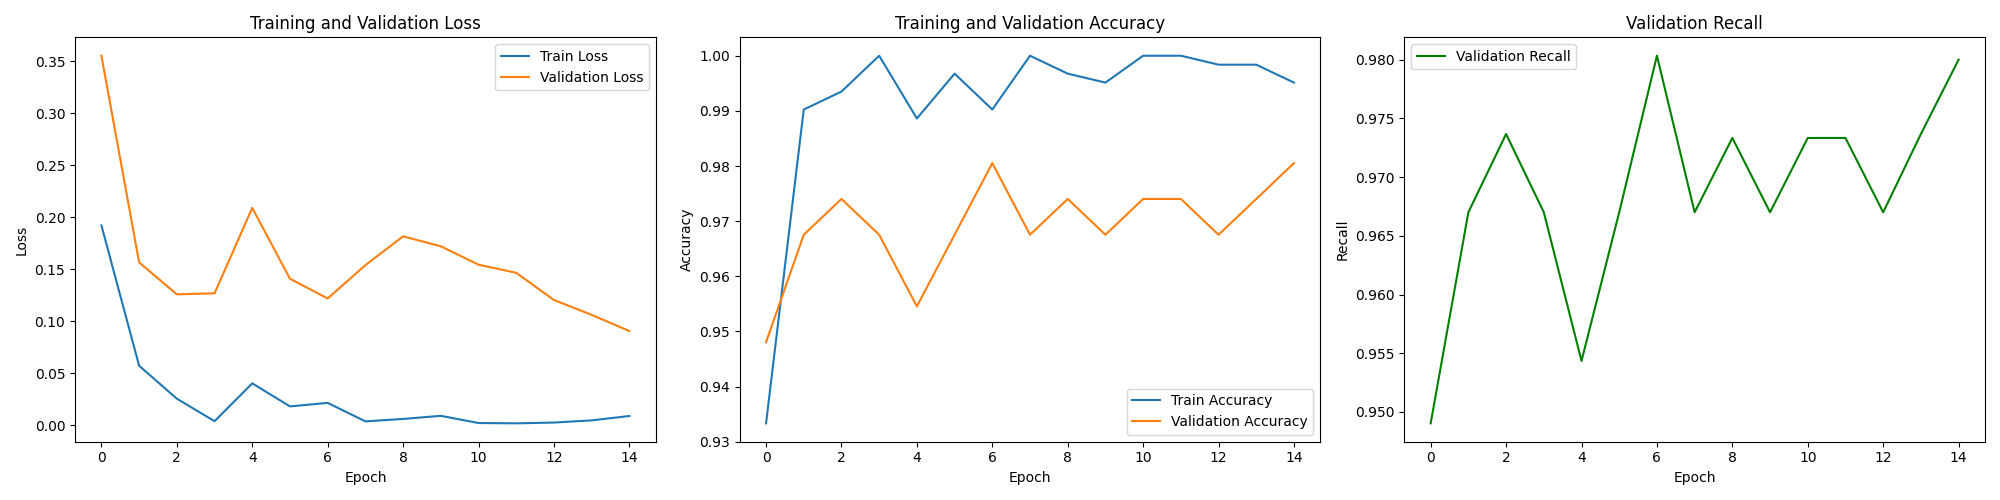
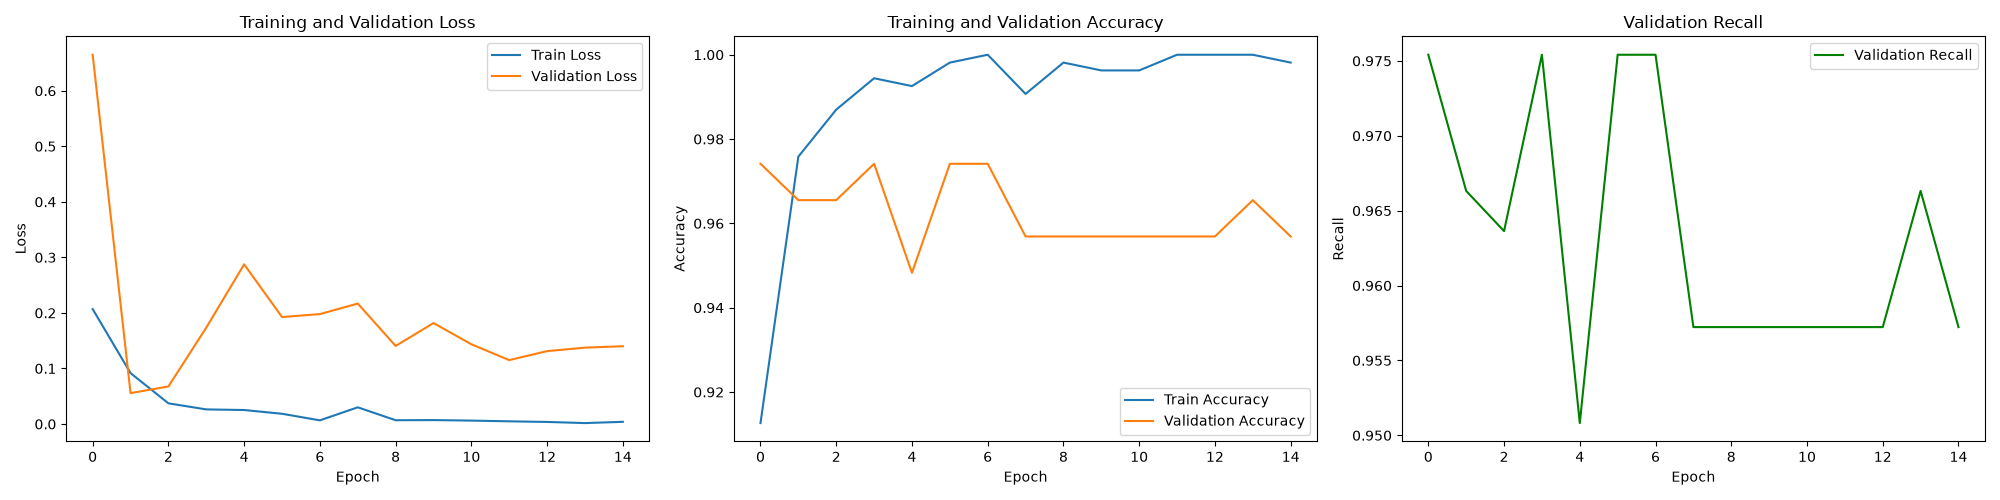
Select by val loss, duplicate-aware split, report test results
- main.py: pick final model by lowest validation loss (best-accuracy rule
  kept an undertrained epoch 1 because later epochs only tied it)
- main.py: group exact/near-duplicate scans (perceptual hash + pixel
  check) and keep each group in one split; 769 images = 681 unique scans
- tests: duplicate groups never cross splits
- README: held-out test results with 95% CIs, evaluation history,
  Grad-CAM examples, scan-type and same-patient limitations
- samples/: demo scans from the test split; regenerated plots

diff --git a/main.py b/main.py
@@ -102,12 +102,48 @@ val_transform = transforms.Compose([
 ])
 
 
+# The dataset contains duplicate scans saved under different filenames. If copies of the same scan
+# land in both train and test, the test score is inflated. Two images count as duplicates when:
+#   1. their perceptual hashes (16x16 thumbnail, each pixel above/below the mean -> 256 bits)
+#      differ in at most max_bit_diff bits (fast first filter), and
+#   2. their 64x64 grayscale thumbnails differ by at most max_pixel_diff on average (0-255 scale).
+# Step 2 is needed because the hash alone matches different scans with similar dark backgrounds.
+def duplicate_groups(df, img_dir, max_bit_diff=5, max_pixel_diff=4):
+    paths = {f: os.path.join(root, f) for root, _, files in os.walk(img_dir) for f in files}
+    hashes, thumbs = [], []
+    for name in df.iloc[:, 0]:
+        gray = Image.open(paths[name]).convert('L')
+        small = np.asarray(gray.resize((16, 16), Image.BILINEAR), dtype=float)
+        hashes.append((small > small.mean()).flatten())
+        thumbs.append(np.asarray(gray.resize((64, 64), Image.BILINEAR), dtype=float).flatten())
+    hashes, thumbs = np.array(hashes), np.array(thumbs)
+
+    # Union-find: duplicates (and duplicates of duplicates) end up in the same group
+    parent = list(range(len(hashes)))
+
+    def find(i):
+        while parent[i] != i:
+            i = parent[i]
+        return i
+
+    for i in range(len(hashes)):
+        close = np.nonzero((hashes[i + 1:] != hashes[i]).sum(axis=1) <= max_bit_diff)[0] + i + 1
+        for j in close:
+            if np.abs(thumbs[i] - thumbs[j]).mean() <= max_pixel_diff:
+                parent[find(j)] = find(i)
+    return np.array([find(i) for i in range(len(hashes))])
+
+
 # Stratified 70/15/15 split. The test set is never seen during training or model selection,
 # so its score is an honest estimate of performance on unseen images.
-def split_data(df, seed=42):
-    train_df, temp_df = train_test_split(df, test_size=0.3, random_state=seed, stratify=df.iloc[:, 1])
-    val_df, test_df = train_test_split(temp_df, test_size=0.5, random_state=seed, stratify=temp_df.iloc[:, 1])
-    return train_df, val_df, test_df
+# If duplicate groups are given, whole groups are split so no scan appears in two splits.
+def split_data(df, groups=None, seed=42):
+    if groups is None:
+        groups = np.arange(len(df))  # every image is its own group
+    group_df = pd.DataFrame({'group': groups, 'label': df.iloc[:, 1].values}).drop_duplicates('group')
+    train_g, temp_g = train_test_split(group_df, test_size=0.3, random_state=seed, stratify=group_df.label)
+    val_g, test_g = train_test_split(temp_g, test_size=0.5, random_state=seed, stratify=temp_g.label)
+    return tuple(df[np.isin(groups, g.group)] for g in (train_g, val_g, test_g))
 
 
 # Function to prepare data
@@ -122,8 +158,10 @@ def prepare_data():
     print(f"Columns: {df.columns.tolist()}")
     print(f"Sample data:\n{df.head()}")
 
-    # Split into train / validation / test sets (70 / 15 / 15)
-    train_df, val_df, test_df = split_data(df)
+    # Split into train / validation / test sets (70 / 15 / 15), keeping duplicate scans together
+    groups = duplicate_groups(df, IMAGE_DIR)
+    print(f"Duplicate check: {len(df)} images form {len(np.unique(groups))} unique scans")
+    train_df, val_df, test_df = split_data(df, groups)
 
     # Save the splits for reference
     train_df.to_csv('train_split.csv', index=False)
@@ -213,6 +251,7 @@ def get_model(num_classes):
 # Training function
 def train_model(model, train_loader, val_loader, criterion, optimizer, scheduler, num_epochs):
     best_val_acc = 0.0
+    best_val_loss = float('inf')  # Used to pick the final model
     best_val_recall = 0.0  # Added to track best recall
     history = {
         'train_loss': [], 'train_acc': [],
@@ -302,6 +341,19 @@ def train_model(model, train_loader, val_loader, criterion, optimizer, scheduler
         history['val_recall'].append(epoch_recall)
 
         print(f"Val Loss: {epoch_loss:.4f}, Val Acc: {epoch_acc:.4f}, Val Recall: {epoch_recall:.4f}")
+
+        # Save best model based on validation loss. This picks the final model: with ~115 validation
+        # images, accuracy moves in ~1% steps and often ties, while loss changes smoothly.
+        if epoch_loss < best_val_loss:
+            best_val_loss = epoch_loss
+            torch.save({
+                'epoch': epoch,
+                'model_state_dict': model.state_dict(),
+                'loss': best_val_loss,
+                'accuracy': epoch_acc.item(),
+                'recall': float(epoch_recall),
+            }, 'best_loss_model.pth')
+            print(f"Saved new best loss model: {best_val_loss:.4f}")
 
         # Save best model based on accuracy
         if epoch_acc > best_val_acc:
@@ -574,11 +626,11 @@ def main():
     # Plot training history
     plot_training_history(history)
 
-    # Use the epoch that scored best on validation (not simply the last epoch)
-    # weights_only=False: our own file, and it also stores optimizer state and metric values
-    best_checkpoint = torch.load('best_acc_model.pth', map_location=DEVICE, weights_only=False)
+    # Use the epoch with the lowest validation loss (not simply the last epoch)
+    best_checkpoint = torch.load('best_loss_model.pth', map_location=DEVICE, weights_only=True)
     model.load_state_dict(best_checkpoint['model_state_dict'])
-    print(f"Loaded best validation model from epoch {best_checkpoint['epoch'] + 1}")
+    print(f"Loaded lowest validation loss model from epoch {best_checkpoint['epoch'] + 1} "
+          f"(val loss {best_checkpoint['loss']:.4f})")
 
     # Evaluate exactly once on the held-out test set
     print("Evaluating best model on held-out test set...")
@@ -600,6 +652,7 @@ def main():
 
     print("Training complete!")
     print("Models have been saved as:")
+    print("- 'best_loss_model.pth' (lowest validation loss)")
     print("- 'best_acc_model.pth' (best accuracy)")
     print("- 'best_recall_model.pth' (best recall)")
     print("- 'final_brain_mri_model.pth' (best validation model + test metrics, used by app.py)")

diff --git a/tests/test_project.py b/tests/test_project.py
@@ -33,6 +33,20 @@ def test_split_is_disjoint_complete_and_stratified():
         assert abs(split.label.mean() - overall) < 0.02
 
 
+def test_duplicate_groups_never_cross_splits():
+    df = pd.read_csv(os.path.join(ROOT, "brain_tumor_labels.csv"))
+    # Fake duplicate groups: pair up consecutive images of the same class
+    df = df.sort_values("label").reset_index(drop=True)
+    groups = np.arange(len(df)) // 2
+    train_df, val_df, test_df = split_data(df, groups)
+
+    split_of_group = {}
+    for name, split in (("train", train_df), ("val", val_df), ("test", test_df)):
+        for g in groups[split.index]:
+            assert split_of_group.setdefault(g, name) == name  # a group lives in one split only
+    assert len(train_df) + len(val_df) + len(test_df) == len(df)
+
+
 def test_split_is_reproducible():
     df = pd.read_csv(os.path.join(ROOT, "brain_tumor_labels.csv"))
     assert list(split_data(df)[2].filename) == list(split_data(df)[2].filename)

diff --git a/README.md b/README.md
@@ -13,27 +13,40 @@ This project is a deep learning-based binary image classification model that det
 - **Model:** ResNet50 pretrained on ImageNet. Only `layer4` and a new `Dropout + Linear` head are trained (transfer learning).
 - **Augmentation:** random horizontal flip, rotation (±10°), brightness/contrast jitter.
 - **Training:** Adam (lr 1e-3, weight decay 1e-4), ReduceLROnPlateau, 15 epochs, batch size 32.
-- **Evaluation:** stratified **70 / 15 / 15** train / validation / test split. The validation set picks the best epoch. The test set is used **once**, at the end, so its score isn't tuned to the data.
-- **Confidence intervals:** test metrics are reported with bootstrap 95% CIs (1,000 resamples). With ~116 test images, a single accuracy number can easily move a few percent, and the interval shows how far.
+- **Evaluation:** stratified **70 / 15 / 15** train / validation / test split (538 / 116 / 115 images). The epoch with the lowest validation loss becomes the final model. The test set is only used at the end.
+- **Duplicate-aware split:** the dataset contains the same scan saved under different filenames (769 images = 681 unique scans). Near-identical images are grouped with a perceptual hash plus a pixel-difference check, and each group is kept inside one split, so no scan appears in both training and test.
+- **Confidence intervals:** test metrics are reported with bootstrap 95% CIs (1,000 resamples). With 115 test images, a single accuracy number can easily move a few percent, and the interval shows how far.
 - **Explainability:** Grad-CAM on the last convolutional block (`layer4`), in `gradcam.py`.
 
 ## Results (held-out test set)
 
 | Metric | Score | 95% CI |
 |---|---|---|
-| Accuracy | _TBD_ | _TBD_ |
-| Recall (macro) | _TBD_ | _TBD_ |
-| Precision (macro) | _TBD_ | _TBD_ |
-| F1 (macro) | _TBD_ | _TBD_ |
-| ROC-AUC | _TBD_ | _TBD_ |
+| Accuracy | 95.7% | 91.3 – 99.1% |
+| Recall (macro) | 95.5% | 91.3 – 99.0% |
+| Precision (macro) | 96.1% | 92.4 – 99.1% |
+| F1 (macro) | 95.6% | 91.3 – 99.1% |
+| ROC-AUC | 0.989 | 0.971 – 1.000 |
+
+Per class: **glioma recall 91.1%** (5 of 56 tumors missed), normal recall 100% (no false alarms). For a screening tool the missed tumors are the more serious error, so improving tumor recall is the main area for future work.
 
 ![Confusion matrix](confusion_matrix.png)
 ![Training history](training_history.png)
 
 > The earlier write-up (`Brain Tumor Detection Using Deep Learning.pdf`) reports 98% accuracy and recall. That number was measured on the validation set that was also used to pick the best model, so it is optimistic. The table above comes from a separate test set and supersedes it.
 
+**How the evaluation was fixed (for transparency):**
+1. Added a held-out test set. The first run, which kept the original "best validation accuracy" rule, scored 94.0% on test. That rule kept epoch 1 because later epochs only tied its accuracy, even though their validation loss was less than half as high.
+2. Switched model selection to the lowest validation loss. The reason for this change was visible in the validation numbers alone.
+3. Found exact and near-duplicate scans crossing the train/test boundary, and made the split duplicate-aware. The table above is from this final run. No further changes were made after seeing it.
+
 ## About the Grad-CAM heatmap
-Grad-CAM highlights the regions that most influenced the model's decision: **where the model is looking**. It is not a tumor outline or a segmentation. On glioma scans it usually lands on the tumor, which suggests the model learned something meaningful. Getting real tumor boundaries would need a segmentation model trained on pixel-level masks.
+Grad-CAM highlights the regions that most influenced the model's decision: **where the model is looking**. It is not a tumor outline or a segmentation. Getting real tumor boundaries would need a segmentation model trained on pixel-level masks.
+
+![Grad-CAM examples](gradcam_examples.png)
+*Test-set scans (top row and middle-left: glioma; others: normal), each next to its heatmap.*
+
+What the heatmaps show, honestly: on most glioma scans the model focuses on or near the tumor. On some scans, though, it looks elsewhere. On two of the normal scans there is a hot spot in the corner outside the skull, which suggests the model also picks up on image artifacts and not only on anatomy. This is exactly what Grad-CAM is useful for: checking *why* a model is right, not just *whether* it is.
 
 ## Dataset
 [PMRAM: Bangladeshi Brain Cancer - MRI Dataset](https://data.mendeley.com/datasets/m7w55sw88b/1) (Mendeley Data, doi:10.17632/m7w55sw88b.1), licensed CC BY 4.0. This project uses only the **glioma** and **normal (no tumor)** classes: 769 images, listed with labels in `brain_tumor_labels.csv` (1 = glioma, 0 = normal).
@@ -72,7 +85,8 @@ hf upload <hf-username>/<space-name> . . --repo-type=space --include "app.py" "g
 
 ## Limitations
 - **Single dataset, single source.** Performance on scans from other hospitals or scanners is unknown.
-- **No patient IDs.** The dataset doesn't say which slices come from the same patient, so slices from one patient may appear in both train and test. That would make the test score optimistic.
+- **No patient IDs.** Exact and near-duplicate images are kept in one split, but different slices from the same patient (for example consecutive slices through the same tumor) can still land in both train and test. That may make the test score somewhat optimistic.
+- **Possible shortcut: scan type.** Most glioma images are T1 post-contrast scans, while most normal images are T2/FLAIR. The model may partly be recognising the scan type instead of the tumor. A fair test would need tumor and normal scans of the same sequence.
 - **Binary only.** Glioma vs normal; meningioma, pituitary tumors and tumor grade aren't handled.
 - **Grad-CAM is not segmentation.** See above.
 
@@ -82,6 +96,8 @@ main.py                   training + evaluation (split, bootstrap CIs, plots)
 gradcam.py                Grad-CAM heatmap + overlay
 app.py                    Gradio web demo
 tests/test_project.py     pytest tests
+gradcam_examples.png      Grad-CAM examples from the test set
+samples/                  demo sample scans (from the test split)
 brain_tumor_labels.csv    filename -> label (1 = glioma, 0 = normal)
 space_README.md           README (with config header) for the Hugging Face Space
 ```

diff --git a/tasks/todo.md b/tasks/todo.md
@@ -10,13 +10,15 @@
 - [x] app.py: Gradio demo (prediction, confidence, heatmap, examples, disclaimer)
 - [x] requirements.txt, .gitignore, space_README.md
 - [x] tests/test_project.py (split, Grad-CAM, app predict)
-- [x] README.md rewrite (results placeholders until training is run)
+- [x] README.md rewrite
+- [x] main.py: select final model by lowest validation loss
+- [x] main.py: duplicate-aware split (`duplicate_groups`) + test
 
 ## You
-- [ ] Download PMRAM (doi 10.17632/m7w55sw88b.1), put glioma + normal images in `data/`
-- [ ] `python main.py`: train, note the test metrics + CIs printed at the end
-- [ ] Copy 3 glioma + 3 normal images listed in `test_split.csv` into `samples/`
-- [ ] Fill the results table in README.md, check `pytest` passes (app test runs now)
+- [x] Download PMRAM (doi 10.17632/m7w55sw88b.1), put glioma + normal images in `data/`
+- [x] `python main.py`: train, note the test metrics + CIs printed at the end
+- [x] Copy 3 glioma + 3 normal images listed in `test_split.csv` into `samples/`
+- [x] Fill the results table in README.md, check `pytest` passes (app test runs now)
 - [ ] `python app.py`: try it locally, save a screenshot as `demo_screenshot.png`
 - [ ] Create the Hugging Face Space and upload (commands in README)
 - [ ] Put the Space URL in README.md
@@ -25,5 +27,14 @@
 - 2026-10-14 smoke test (synthetic images, 1 epoch, throwaway copy): split → train → best-val checkpoint → test
   eval with CIs → checkpoint loads with `weights_only=True` → app predict + Grad-CAM all work. The heatmap
   lands on the synthetic lesion (mean 0.65 inside vs 0.11 overall). `pytest`: 5/5 pass with weights, 4 pass + 1 skip without.
-- Real-data results still pending (dataset not downloaded yet).
+- 2026-10-14 real-data runs (same seed, same 15 epochs):
+  1. Original best-val-accuracy selection: kept epoch 1 (ties never replaced it), test acc 94.0%.
+  2. Lowest-val-loss selection: epoch 14, test acc 95.7%. Found exact duplicates crossing train/test
+     (769 images = 681 unique scans); removing duplicated test images cost ~1-1.5 points.
+  3. Duplicate-aware split (hash <= 5 bits AND 64px mean diff <= 4; hash alone chained different scans
+     into a 71-image mixed-label group): epoch 2, test acc 95.7% [91.3, 99.1], AUC 0.989,
+     glioma recall 91.1% (5/56 missed). Final, reported in README. No changes made after seeing it.
+- Grad-CAM on real test scans: mostly on/near tumors; some off-target; corner artifacts on 2 normals.
+- Disclosed in README: same-patient adjacent slices can still cross splits; T1 (glioma) vs T2/FLAIR
+  (normal) sequence imbalance is a possible shortcut.
 - Open notes: the PDF mentions early stopping but the code has none; `plt.show()` blocks until windows are closed.
